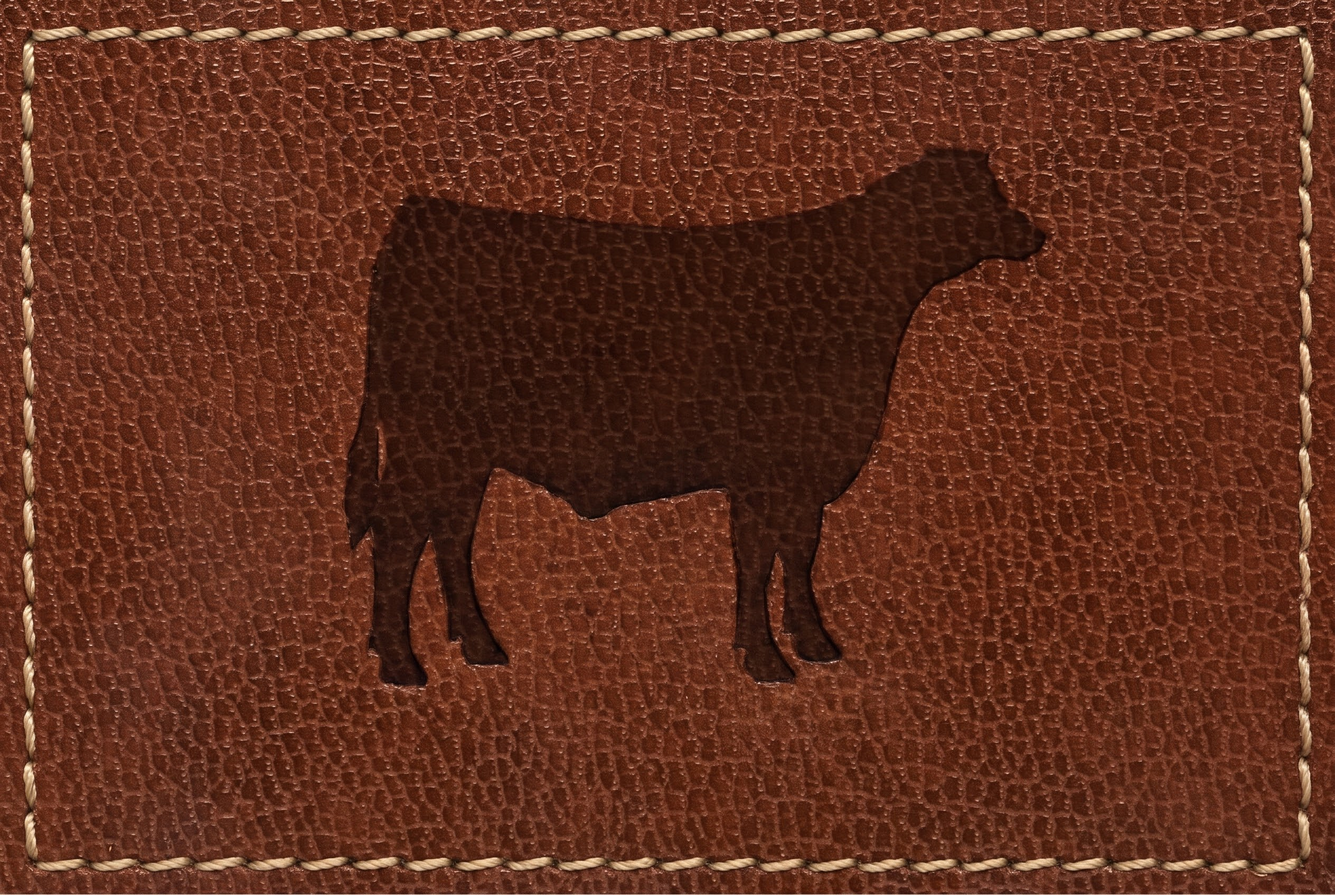
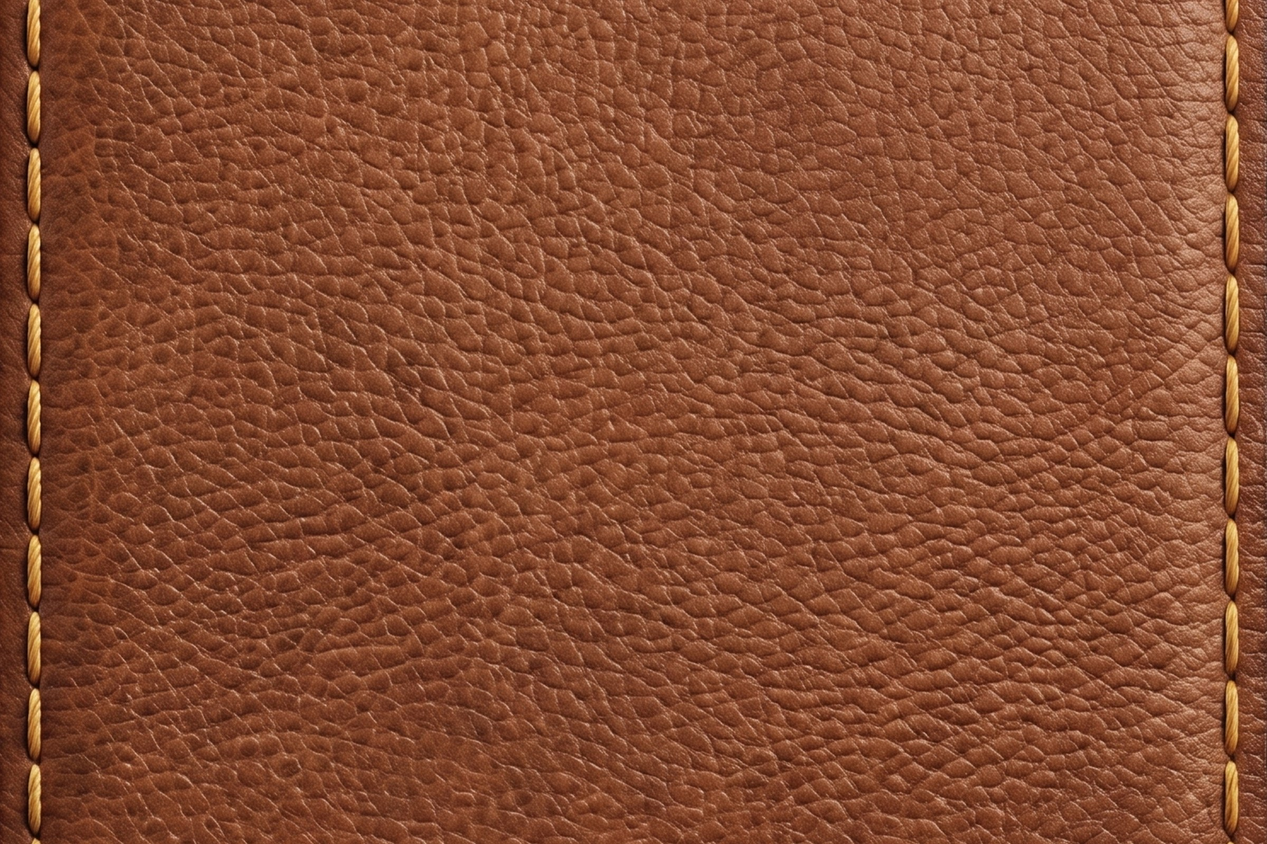
Capa com foto vertical dedicada no celular, novo fundo da contagem e corrige piscar do botão
- Adiciona hero-bg-mobile.jpg (9:16, feita sob medida) usada só no
  celular via media query; desktop/iPad continuam com a foto paisagem
- Celular agora preenche a tela toda sem cortar nada, porque a imagem
  já foi composta para esse formato
- Troca o fundo da contagem regressiva pela nova foto de couro
- Remove a animação de entrada do botão da capa (causava um "pisca-pisca"
  junto com a barra fixa aparecendo quase no mesmo ponto de rolagem,
  já que a capa tinha ficado bem mais baixa)
- Confirma que os 6 logos de patrocinadores já estão linkados certo

diff --git a/index.html b/index.html
@@ -25,11 +25,12 @@
 <!-- ======= PÁGINA 1 · CAPA (HERO) ======= -->
 <!-- A foto de capa já traz título, logo e data do evento embutidos na própria imagem -->
 <section class="hero" id="topo">
-  <div class="hero__bg" id="heroBg" data-img="assets/img/hero-bg.jpg"></div>
-  <span class="img-tag" id="heroBgTag">📷 Foto de capa: assets/img/hero-bg.jpg</span>
+  <div class="hero__bg hero__bg--desktop" id="heroBg" data-img="assets/img/hero-bg.jpg"></div>
+  <div class="hero__bg hero__bg--mobile" id="heroBgMobile" data-img="assets/img/hero-bg-mobile.jpg"></div>
+  <span class="img-tag" id="heroBgTag">📷 Foto de capa: assets/img/hero-bg.jpg (desktop) / hero-bg-mobile.jpg (celular)</span>
 
   <div class="hero__content">
-    <a href="https://byma.com.br/penedobbqfestival" target="_blank" rel="noopener" class="btn btn--sm btn--primary reveal" data-reveal="fade-up">
+    <a href="https://byma.com.br/penedobbqfestival" target="_blank" rel="noopener" class="btn btn--sm btn--primary">
       <span class="hero__cta-full">Cadastro Pré-venda</span>
       <span class="hero__cta-short">Pré-venda</span>
     </a>

diff --git a/css/style.css b/css/style.css
@@ -290,8 +290,8 @@ h1,h2,h3{ margin:0; font-weight:400; }
 .hero{
   position:relative;
   width:100%;
-  /* mesma proporção da foto (2400x1600) — assim ela cabe inteira, sem
-     cortar nada e sem sobrar espaço vazio, em qualquer tamanho de tela */
+  /* mesma proporção da foto de desktop (2400x1600) — assim ela cabe
+     inteira, sem cortar nada e sem sobrar espaço vazio */
   aspect-ratio:3/2;
   overflow:hidden;
   background:var(--tabaco);
@@ -307,6 +307,14 @@ h1,h2,h3{ margin:0; font-weight:400; }
     linear-gradient(180deg, rgba(42,26,18,.35), rgba(42,26,18,.85)),
     radial-gradient(circle at 30% 20%, #7c5a35 0%, #3a2717 55%, #2a1a12 100%);
   background-blend-mode:normal;
+}
+.hero__bg--mobile{ display:none; }
+/* no celular troca para a foto vertical (9:16), feita sob medida para
+   caber inteira numa tela alta e estreita */
+@media (max-width:680px){
+  .hero{ aspect-ratio:9/16; }
+  .hero__bg--desktop{ display:none; }
+  .hero__bg--mobile{ display:block; }
 }
 .hero__content{
   position:absolute;

diff --git a/js/main.js b/js/main.js
@@ -34,6 +34,7 @@
   });
 
   var heroBg = document.getElementById('heroBg');
+  var heroBgMobile = document.getElementById('heroBgMobile');
   var heroBgTag = document.getElementById('heroBgTag');
   if (heroBg) {
     fillImageSlot(heroBg);
@@ -41,6 +42,9 @@
     var heroSrcCheck = new Image();
     heroSrcCheck.onerror = function(){ if (heroBgTag) heroBgTag.classList.remove('is-hidden'); };
     heroSrcCheck.src = heroBg.getAttribute('data-img');
+  }
+  if (heroBgMobile) {
+    fillImageSlot(heroBgMobile);
   }
 
   // Secção "Munhoz e Mariano" usa a mesma foto de capa como fundo
